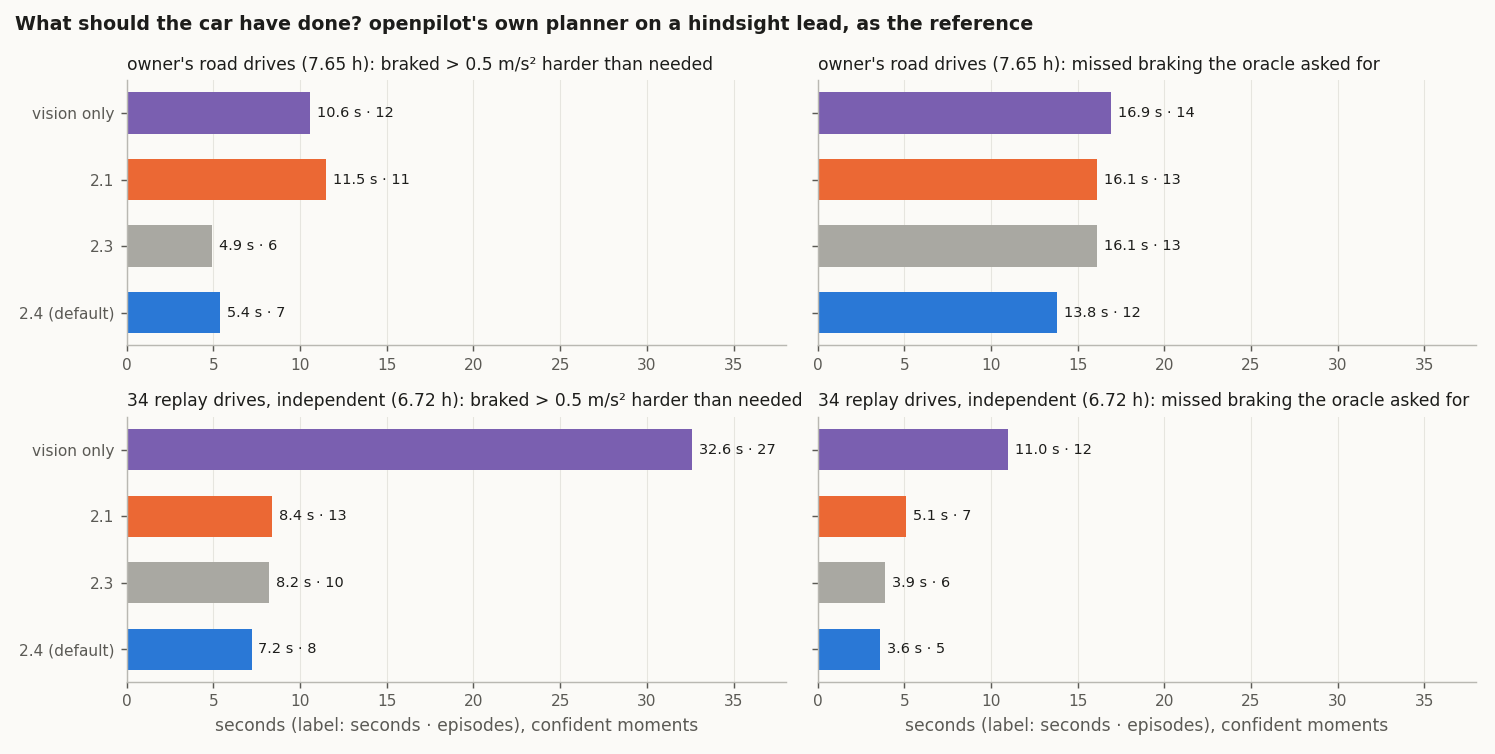
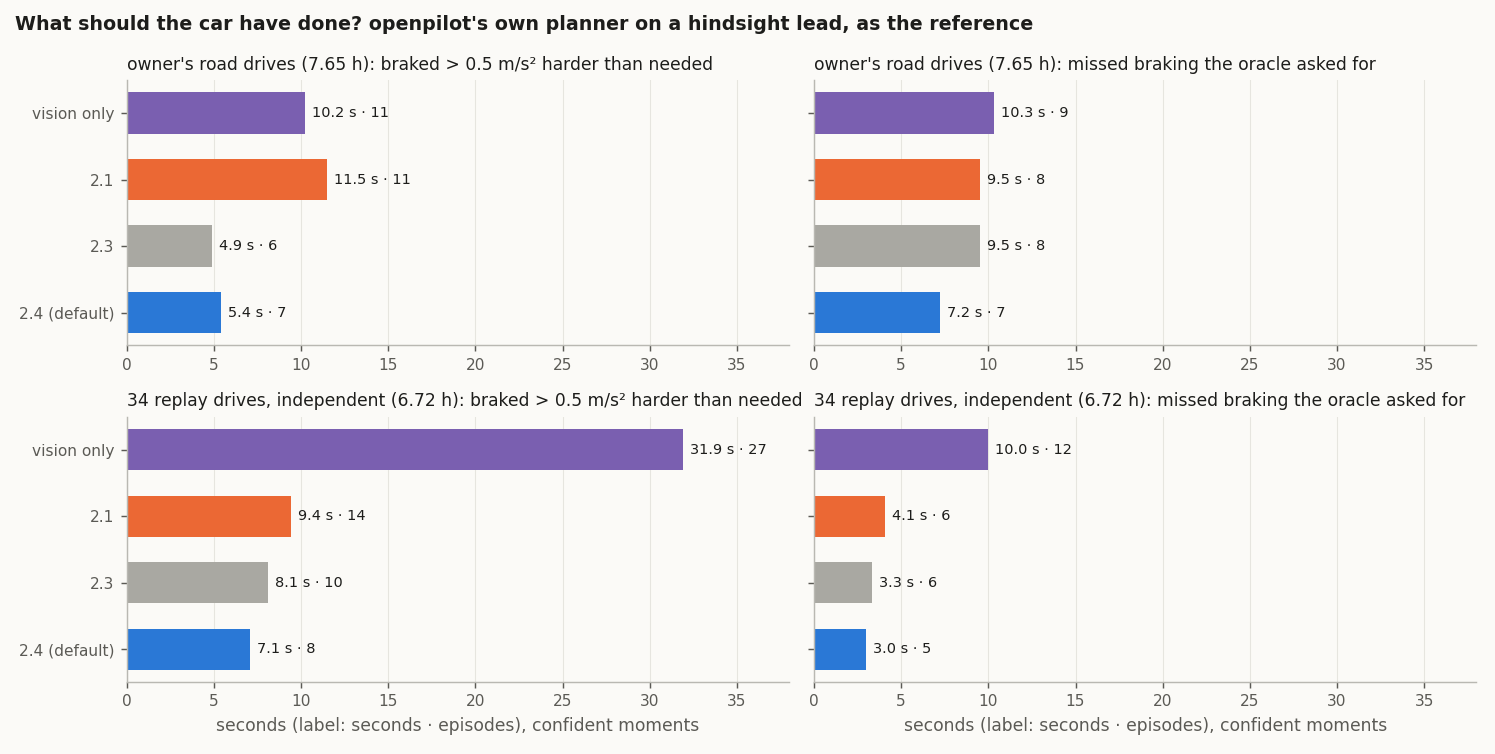
docs: corrected hindsight-lead oracle numbers (#82)
The reference lead no longer smooths across a switch between two cars at
similar range (stretches split at ACC-target ID changes and lateral jumps
> 1.5 m), and the 2 s after the ACC target drops a lead the camera still
follows are no longer scored as confident. Both were oracle artifacts
shared by every version. Rankings unchanged; 2.4 stays best.

diff --git a/docs/12_kalman_filter.md b/docs/12_kalman_filter.md
@@ -107,7 +107,7 @@ The two filters run in series, so all replay numbers already include their combi
 - **Plain decode (every profile):**
   - publish from age 60 (~3.6 s): young tracks have unconverged range and speed ([02](02_object_list.md)). Age 40
     exposes young far false closings (further-drive hard ticks 1 → 9), and so does publishing the ACC target's track
-    early; age 80 delays real braking (missed braking against the hindsight-lead oracle 3.8 → 4.3 s on 34 drives);
+    early; age 80 delays real braking (missed braking against the hindsight-lead oracle 3.3 → 3.7 s on 34 drives);
   - multiply the object list's over-ground speed by 0.149/0.15, then subtract 0xB4 ego speed;
   - publish no point without a fresh ego speed, because one NaN poisons radard's filter.
 - **Saturation guard (`raw` only):** velocity code 1023 (and 0) is an invalid sentinel that decays over ~6 records.
@@ -198,17 +198,19 @@ Numbers: [`lead_choice_guards.json`](../data/analysis/summaries/lead_choice_guar
 Vision only is an imperfect reference too. As a second one, a hindsight lead was built for each moment of the road
 drives: identity from the radar's in-path ACC target (else the camera's lead); range from the ACC target, else the raw
 object list within 1 m laterally, plus the camera when it is on the same car; smoothed forwards and backwards
-(Rauch-Tung-Striebel, constant acceleration). openpilot's unchanged radard and planner then ran on that lead alone,
+(Rauch-Tung-Striebel, constant acceleration) within each stretch of one car, which ends where the ACC target changes
+ID or the lead jumps sideways, so a switch between two cars never reads as a closing. openpilot's unchanged radard and planner then ran on that lead alone,
 through an interface that publishes only it. Each version is scored against that oracle's request on the moments
 where the reference comes from the radar and radar and camera agree. Camera-only moments are judged with video,
-because the model's lead range slides from one car to the next at cut-ins.
+because the model's lead range slides from one car to the next at cut-ins, and so are the 2 s after the ACC target
+drops a lead the camera still follows (a lead turning out of the lane).
 
 ![against the oracle](img/analysis/guide_oracle.png)
 
 Over 7.65 h of the owner's road drives, `fused` brakes unnecessarily (> 0.5 m/s² harder than the oracle, ≥ 0.3 s) for
-5.4 s against 10.6 s for vision only and 11.5 s for 2.1, and misses less of the braking the oracle asked for (13.8 s,
-vision 16.9 s). On the 34 replay drives, which did not shape it (6.72 h scored), it is the best of all versions on
-both: 7.2 s unnecessary (vision 32.6 s, 2.1 8.4 s) and 3.6 s missed (vision 11.0 s, 2.1 5.1 s). Standstill is not scored: the
+5.4 s against 10.2 s for vision only and 11.5 s for 2.1, and misses less of the braking the oracle asked for (7.2 s,
+vision 10.3 s, 2.1 9.5 s). On the 34 replay drives, which did not shape it (6.72 h scored), it is the best of all versions on
+both: 7.1 s unnecessary (vision 31.9 s, 2.1 9.4 s) and 3.0 s missed (vision 10.0 s, 2.1 4.1 s). Standstill is not scored: the
 planner's stop-and-go logic dominates there. Numbers:
 [`oracle_reference.json`](../data/analysis/summaries/oracle_reference.json).
 
@@ -293,9 +295,9 @@ Over the 34 replay drives (about 5 h), the summaries change the planner's reques
 while it was not. The summaries soften the response to far leads without an ACC target, half usefully and half not.
 
 Against the hindsight-lead oracle ([above](#against-what-the-car-should-have-done)) they do not pay: without them 2.3
-brakes unnecessarily for 7.2 s instead of 8.2 s and misses 3.6 s instead of 3.8 s on the 34 independent drives (RMS
-0.244 against 0.245). On the owner's road drives the two are identical on all 23 bookmarks, with 0 hard radar-only
-braking and 7 mild requests each; against the oracle 5.4 against 4.9 s unnecessary and 13.8 against 16.0 s missed.
+brakes unnecessarily for 7.1 s instead of 8.1 s and misses 3.0 s instead of 3.3 s on the 34 independent drives (RMS
+0.244 for both). On the owner's road drives the two are identical on all 23 bookmarks, with 0 hard radar-only
+braking and 7 mild requests each; against the oracle 5.4 against 4.9 s unnecessary and 7.2 against 9.5 s missed.
 Since 2.4 `fused` leaves them out, so the fork default and the openpilot version drive identically. The code stays as a
 fork option (`summary_sigma_mps`), and the experimental `colored` profile, which was tested with them, keeps them.
 

diff --git a/docs/10_research_directions.md b/docs/10_research_directions.md
@@ -198,7 +198,7 @@ upstream PR.
 | Kalman speed filter (one state, 240|7-weighted) | 22 | 2.0 | hard radar-only braking about 3x (raw) | keep |
 | young-track factor | 3 | 2.0 | further-drive hard ticks 2 -> 11 | keep |
 | speed-std publication gate | 2 | 2.0 | further-drive hard ticks 2 -> 8 | keep |
-| age-60 publication gate | 2 | 1.0 | radar-only braking x3 (age 6); age 40: further-drive hard ticks 1 -> 9; age 80: more missed braking against the hindsight-lead oracle (3.8 -> 4.3 s) | keep |
+| age-60 publication gate | 2 | 1.0 | radar-only braking x3 (age 6); age 40: further-drive hard ticks 1 -> 9; age 80: more missed braking against the hindsight-lead oracle (3.3 -> 3.7 s) | keep |
 | range fusion (incl. ACC distance as the followed car's range) | 9 | 2.0 (ACC distance 2.1) | braking neutral; lead flips +39 %, target episodes 4 -> 6 | keep for lead stability; droppable at that cost |
 | ego-speed alignment x 0.149/0.15 | 1 | 1.x | neutral (onset +12 ms) | droppable |
 | state pruning | 7 | 2.0 | unbounded state | required |

diff --git a/docs/00_start_here.md b/docs/00_start_here.md
@@ -130,7 +130,7 @@ More: [11 Profiles compared](11_profiles_compared.md), [08](08_openpilot_integra
 | braking onset against vision only | −0.01 s (95 % CI −0.07 … +0.04) | `profiles_vs_vision.json` |
 | driver brakes already anticipated at ≤ −1 m/s² | `fused` 41.3 %, vision 40.1 % | `profiles_vs_vision.json` |
 | owner road drives with 2.1 (5.8 moving h, replayed) | 0 hard radar-only episodes; braking starts 0.4-1.0 s before vision | `road_v21.json` |
-| unnecessary / missed braking against a hindsight oracle | road drives (7.65 h): `fused` 5.4 / 13.8 s, vision 10.6 / 16.9 s; 34 replay drives (6.72 h): `fused` 7.2 / 3.6 s, vision 32.6 / 11.0 s | `oracle_reference.json` |
+| unnecessary / missed braking against a hindsight oracle | road drives (7.65 h): `fused` 5.4 / 7.2 s, vision 10.2 / 10.3 s; 34 replay drives (6.72 h): `fused` 7.1 / 3.0 s, vision 31.9 / 10.0 s | `oracle_reference.json` |
 | openpilot file | 184 code lines | `openpilot_file_parts.json` |
 
 ## How to read the evidence

diff --git a/README.md b/README.md
@@ -48,8 +48,8 @@ From replaying 34 recorded drives through openpilot's unchanged radard and plann
 - **Braking that only the radar wanted** happens about 0.22 times per hour (the unfiltered radar: 1.75), always while
   the driver also slowed, never while the driver was on the gas. The requests are as smooth as vision-only.
 - **Against what the car should have done** (openpilot's planner on a hindsight lead, 7.65 h of road drives), it
-  brakes unnecessarily for 5.4 s against 10.6 s for vision only (34 replay drives: 7.2 s against 32.6 s), and misses
-  less braking
+  brakes unnecessarily for 5.4 s against 10.2 s for vision only (34 replay drives: 7.1 s against 31.9 s), and misses
+  less braking (7.2 s against 10.3 s; 3.0 s against 10.0 s)
   ([12](docs/12_kalman_filter.md#against-what-the-car-should-have-done)).
 - **Known quirk:** far away (beyond about 80 m) without the radar's own ACC target, a jump in a far car's reported
   speed can still cause a short, mild slowdown.
